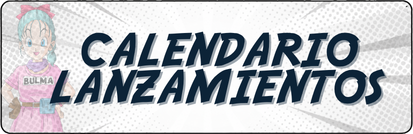
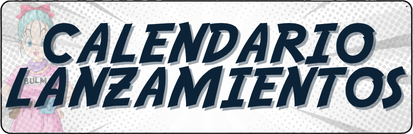
Replace the launch-calendar menu artwork
Overwrite the existing button image with the user's updated PNG and refresh its URL on both home pages so browsers show the new artwork immediately.

diff --git a/index.html b/index.html
@@ -29,7 +29,7 @@
     <div class="bienvenida"></div>
   </header>
   <nav class="menu-visual" aria-label="Navegación principal">
-    <a href="./calendario-japon.html"><img src="../assets/menu/calendario-lanzamientos.png" alt="Calendario de lanzamientos" class="boton-imagen" width="413" height="134" referrerpolicy="no-referrer"><span class="sr-only">Calendario de lanzamientos</span></a>
+    <a href="./calendario-japon.html"><img src="../assets/menu/calendario-lanzamientos.png?v=2" alt="Calendario de lanzamientos" class="boton-imagen" width="413" height="134" referrerpolicy="no-referrer"><span class="sr-only">Calendario de lanzamientos</span></a>
     <a href="./preventa.html"><img alt="Preventa" class="boton-imagen" referrerpolicy="no-referrer" src="https://i.imgur.com/8wy78gh.png"/><span class="sr-only">Preventas</span></a>
     <a href="./catalogo.html"><img alt="Catálogo" class="boton-imagen" referrerpolicy="no-referrer" src="https://i.imgur.com/B5T6n58.png"/><span class="sr-only">Catálogo</span></a>
     <a href="./catalogo-japon.html"><img alt="Catalogo Japon" class="boton-imagen" referrerpolicy="no-referrer" src="https://i.imgur.com/vGhSm1B.png"/><span class="sr-only">Catálogo Japón</span></a>

diff --git a/views/inicio.html b/views/inicio.html
@@ -28,7 +28,7 @@
     <div class="bienvenida"></div>
   </header>
   <nav class="menu-visual" aria-label="Navegación principal">
-    <a href="./calendario-japon.html"><img src="../assets/menu/calendario-lanzamientos.png" alt="Calendario de lanzamientos" class="boton-imagen" width="413" height="134" referrerpolicy="no-referrer"><span class="sr-only">Calendario de lanzamientos</span></a>
+    <a href="./calendario-japon.html"><img src="../assets/menu/calendario-lanzamientos.png?v=2" alt="Calendario de lanzamientos" class="boton-imagen" width="413" height="134" referrerpolicy="no-referrer"><span class="sr-only">Calendario de lanzamientos</span></a>
     <a href="./preventa.html"><img alt="Preventa" class="boton-imagen" referrerpolicy="no-referrer" src="https://i.imgur.com/8wy78gh.png"/><span class="sr-only">Preventas</span></a>
     <a href="./catalogo.html"><img alt="Catálogo" class="boton-imagen" referrerpolicy="no-referrer" src="https://i.imgur.com/B5T6n58.png"/><span class="sr-only">Catálogo</span></a>
     <a href="./catalogo-japon.html"><img alt="Catalogo Japon" class="boton-imagen" referrerpolicy="no-referrer" src="https://i.imgur.com/vGhSm1B.png"/><span class="sr-only">Catálogo Japón</span></a>
